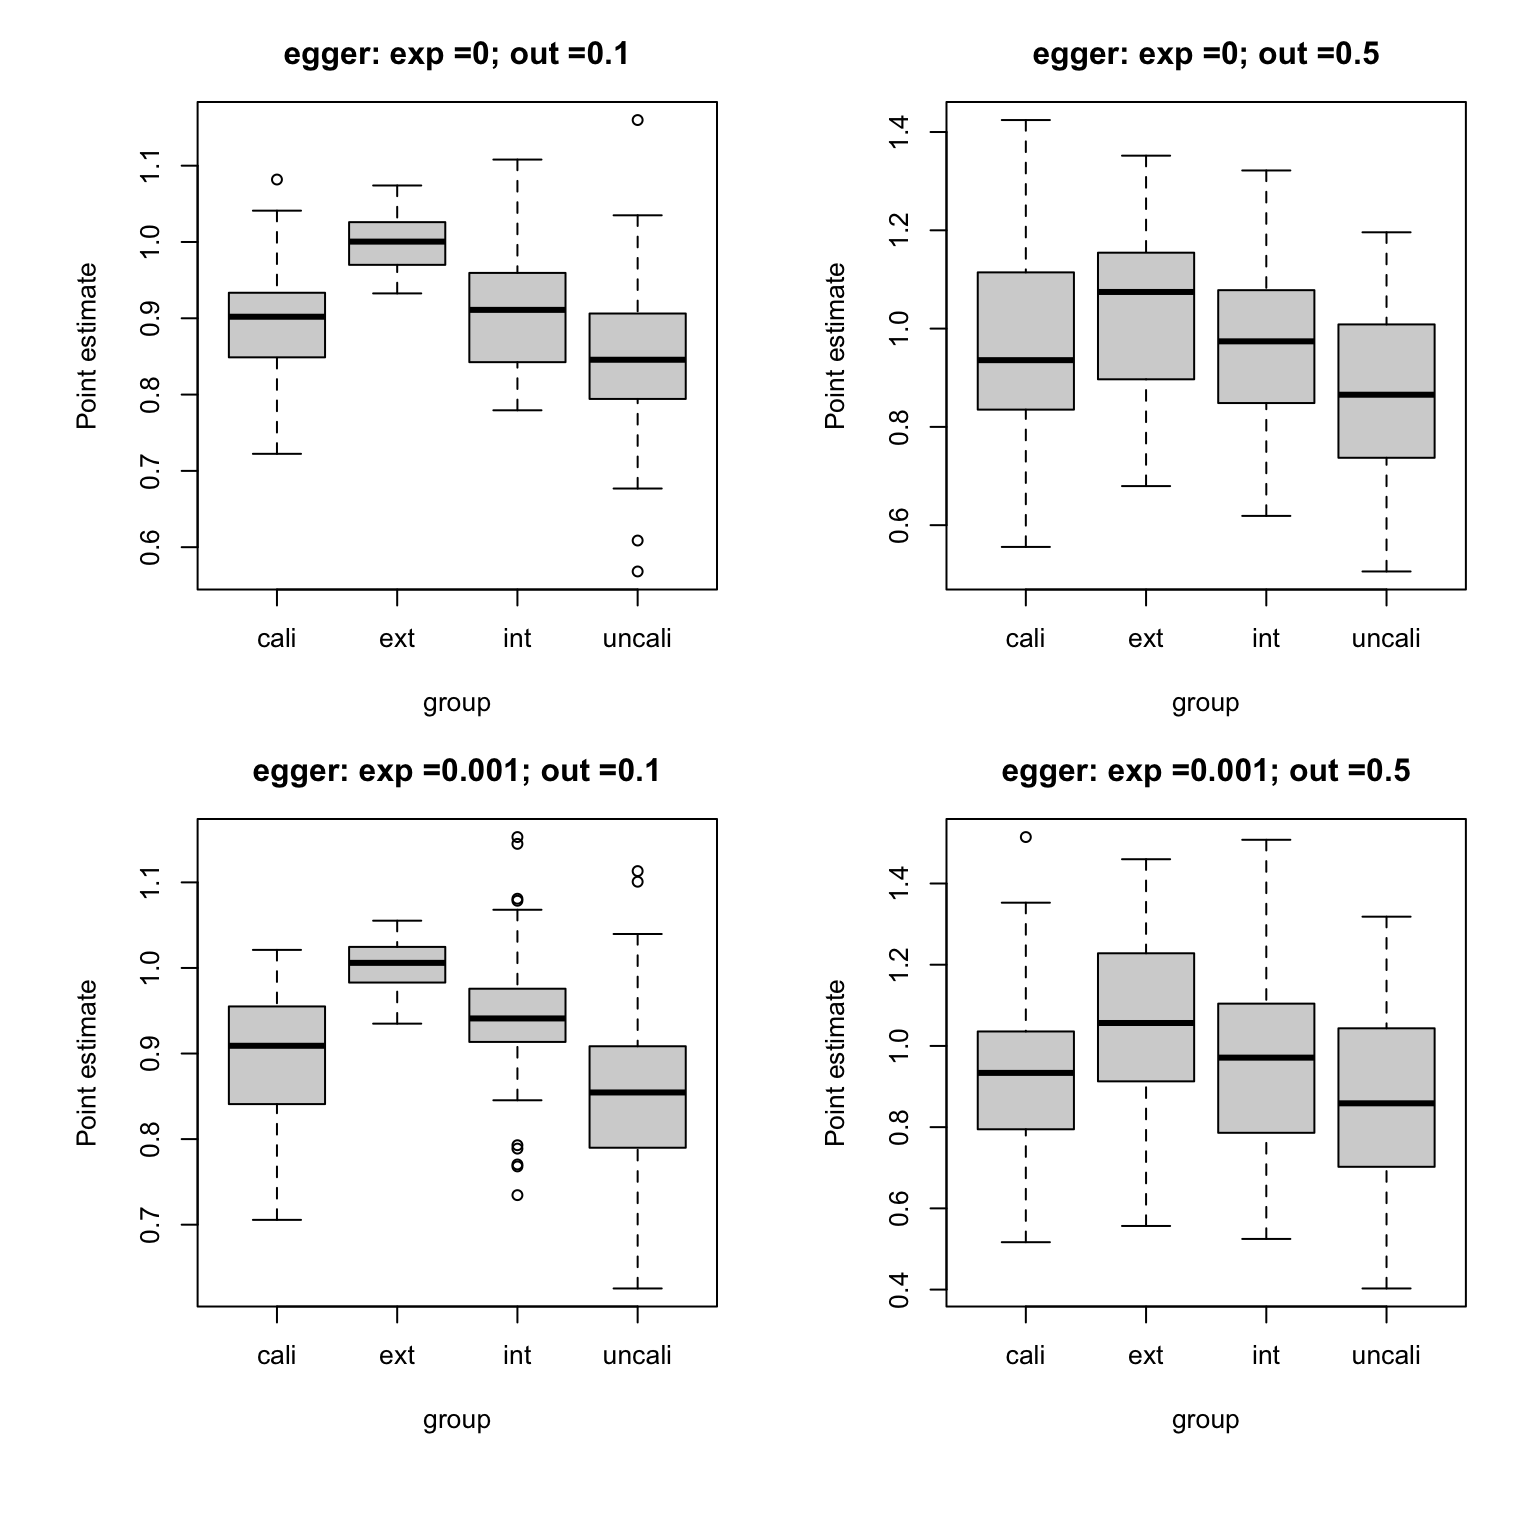
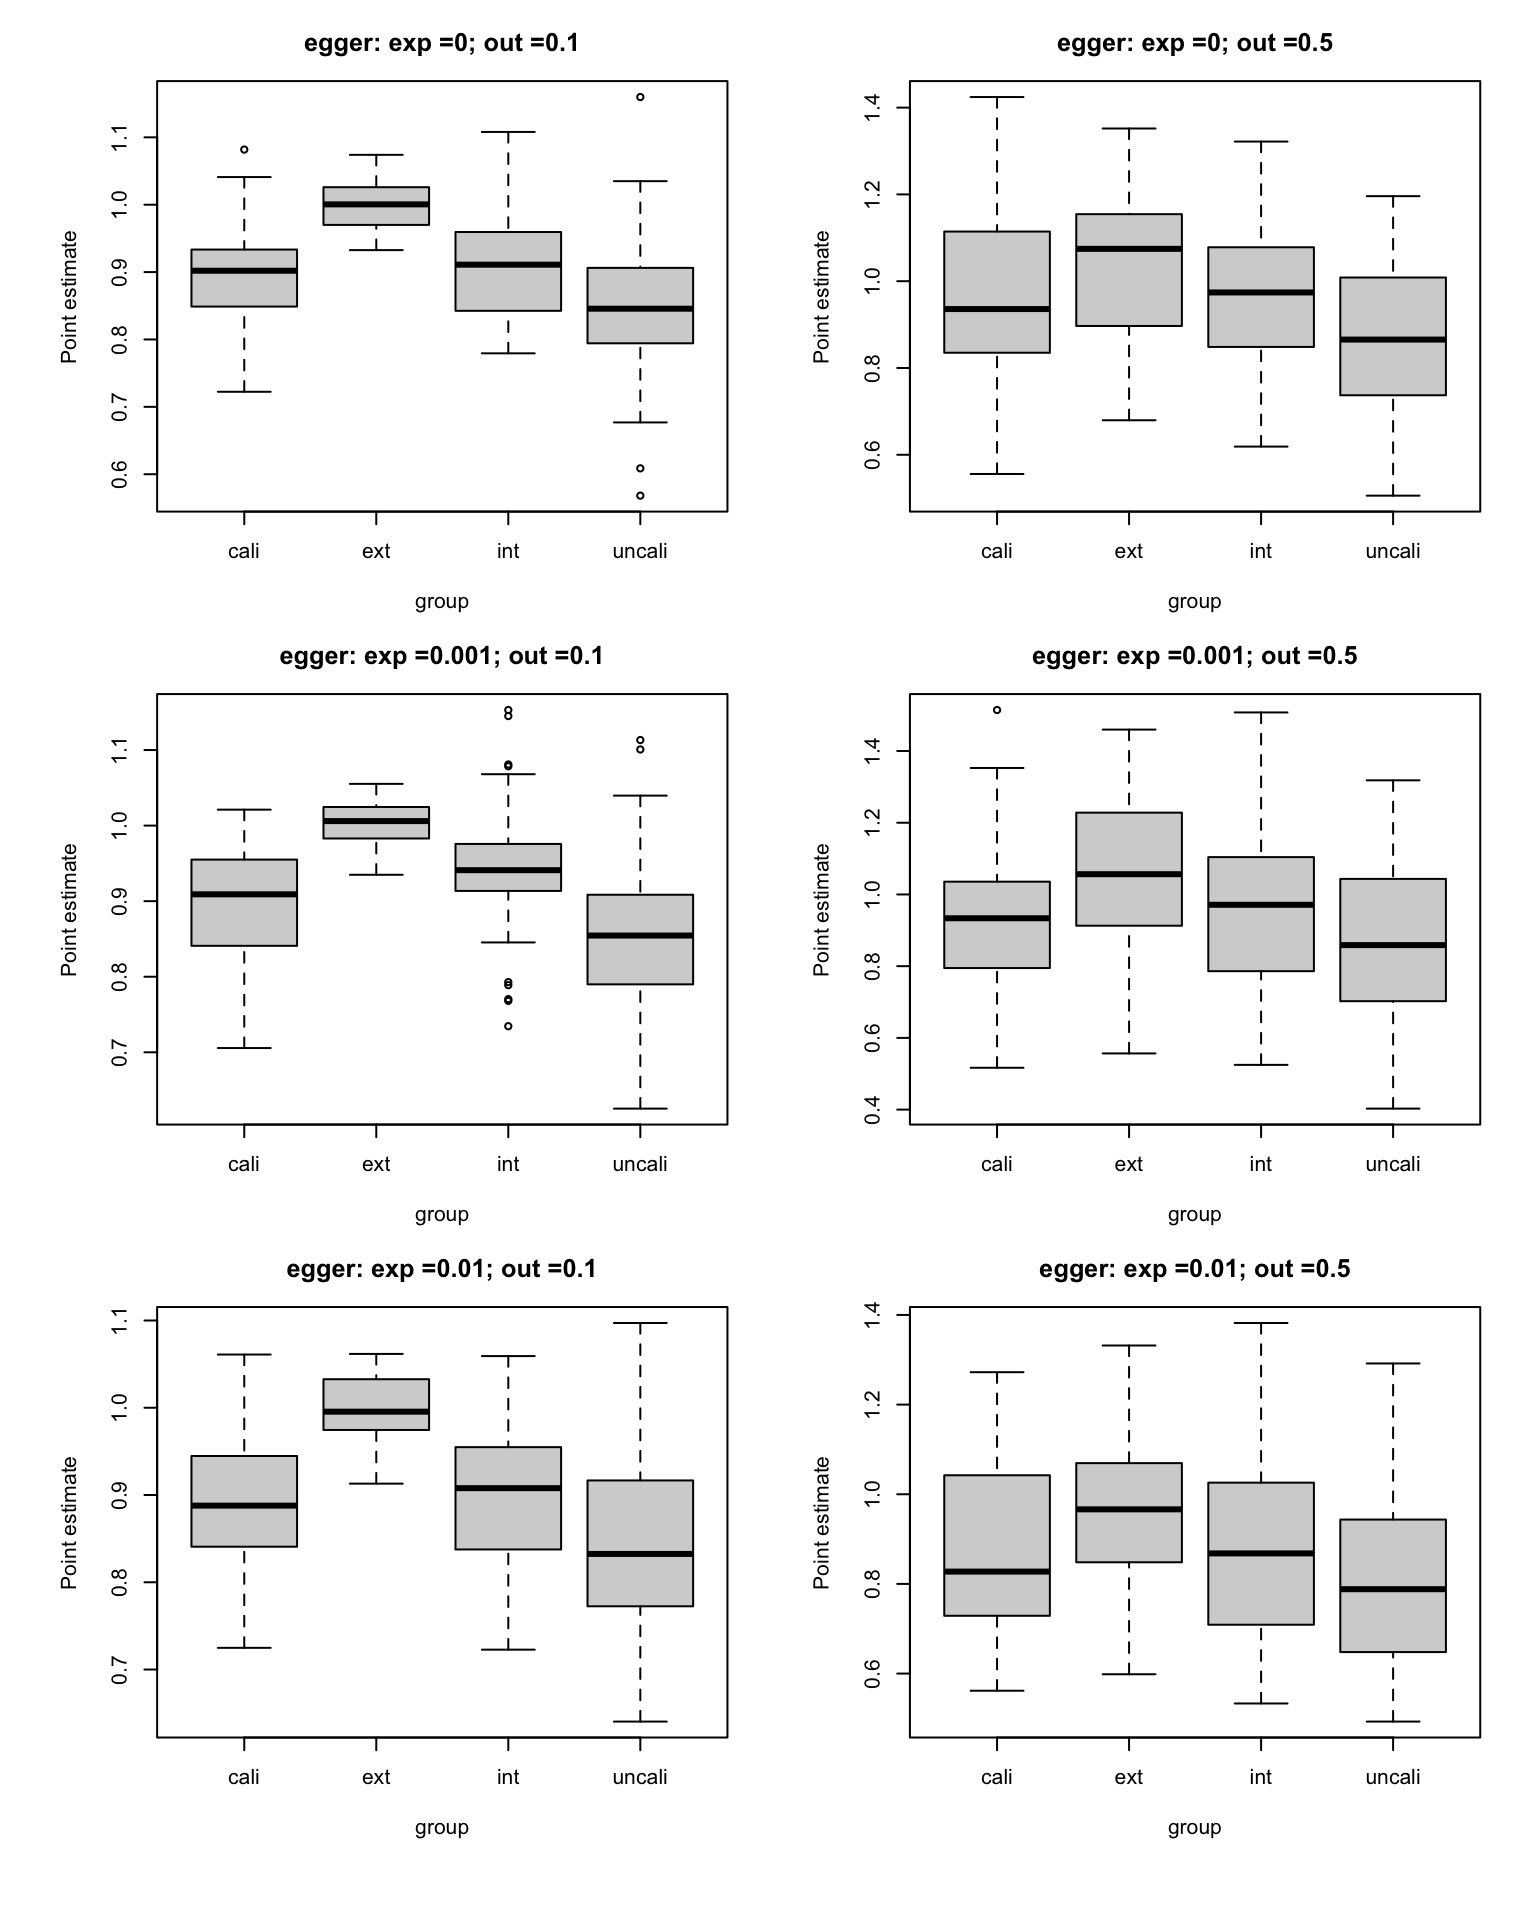
Build site.

diff --git a/docs/mr_result.html b/docs/mr_result.html
@@ -475,16 +475,16 @@ This reproducible <a href="http://rmarkdown.rstudio.com">R Markdown</a> analysis
 <div class="panel panel-default">
 <div class="panel-heading">
 <p class="panel-title">
-<a data-toggle="collapse" data-parent="#workflowr-checks" href="#strongRepositoryversionstrongahrefhttpsgithubcomyunqiyang0215simulationcalibratedmrtree392473387bdb72d81944f5c8b0a39fec6e5eef0btargetblank3924733a"> <span class="glyphicon glyphicon-ok text-success" aria-hidden="true"></span> <strong>Repository version:</strong> <a href="https://github.com/yunqiyang0215/simulation-calibrated-mr/tree/392473387bdb72d81944f5c8b0a39fec6e5eef0b" target="_blank">3924733</a> </a>
+<a data-toggle="collapse" data-parent="#workflowr-checks" href="#strongRepositoryversionstrongahrefhttpsgithubcomyunqiyang0215simulationcalibratedmrtreeb0f460d19e587545119f613d90ff9e086d748d89targetblankb0f460da"> <span class="glyphicon glyphicon-ok text-success" aria-hidden="true"></span> <strong>Repository version:</strong> <a href="https://github.com/yunqiyang0215/simulation-calibrated-mr/tree/b0f460d19e587545119f613d90ff9e086d748d89" target="_blank">b0f460d</a> </a>
 </p>
 </div>
[2 lines of base64/hex data omitted]
 <div class="panel-body">
 <p>
 Great! You are using Git for version control. Tracking code development and connecting the code version to the results is critical for reproducibility.
 </p>
 <p>
-The results in this page were generated with repository version <a href="https://github.com/yunqiyang0215/simulation-calibrated-mr/tree/392473387bdb72d81944f5c8b0a39fec6e5eef0b" target="_blank">3924733</a>. See the <em>Past versions</em> tab to see a history of the changes made to the R Markdown and HTML files.
+The results in this page were generated with repository version <a href="https://github.com/yunqiyang0215/simulation-calibrated-mr/tree/b0f460d19e587545119f613d90ff9e086d748d89" target="_blank">b0f460d</a>. See the <em>Past versions</em> tab to see a history of the changes made to the R Markdown and HTML files.
 </p>
 <p>
 Note that you need to be careful to ensure that all relevant files for the analysis have been committed to Git prior to generating the results (you can use <code>wflow_publish</code> or <code>wflow_git_commit</code>). workflowr only checks the R Markdown file, but you know if there are other scripts or data files that it depends on. Below is the status of the Git repository when the results were generated:
@@ -536,6 +536,40 @@ Message
 </tr>
 </thead>
 <tbody>
+<tr>
+<td>
+Rmd
+</td>
+<td>
+<a href="https://github.com/yunqiyang0215/simulation-calibrated-mr/blob/b0f460d19e587545119f613d90ff9e086d748d89/analysis/mr_result.Rmd" target="_blank">b0f460d</a>
+</td>
+<td>
+yunqiyang0215
+</td>
+<td>
+2023-07-20
+</td>
+<td>
+wflow_publish("analysis/mr_result.Rmd")
+</td>
+</tr>
+<tr>
+<td>
+html
+</td>
+<td>
+<a href="https://rawcdn.githack.com/yunqiyang0215/simulation-calibrated-mr/75a766c00d3547ed22ed8fc9b68e71736c9a8c60/docs/mr_result.html" target="_blank">75a766c</a>
+</td>
+<td>
+yunqiyang0215
+</td>
+<td>
+2023-07-20
+</td>
+<td>
+Build site.
+</td>
+</tr>
 <tr>
 <td>
 Rmd
@@ -599,7 +633,7 @@ wflow_publish("analysis/mr_result.Rmd")
 out_NT_effect = c(0.1, 0.5)
 method = c(&quot;calibrated&quot;, &quot;adj_uncalibrated&quot;, &quot;unadj_ext&quot;, &quot;unadj_int&quot;)
 mr_method = c(&quot;eggr&quot;, &quot;ivw&quot;, &quot;mr.raps&quot;)</code></pre>
-<pre class="r"><code>par(mfrow = c(2,2), mar = c(4, 5, 3, 2) + 0.1, oma = c(3, 1, 0, 0) + 0.1)
+<pre class="r"><code>par(mfrow = c(3,2), mar = c(4, 5, 3, 2) + 0.1, oma = c(3, 1, 0, 0) + 0.1)
 for (i in 1:length(exp_NT_effect)){
   for (j in 1:length(out_NT_effect)){
     res = dat[dat$simulate.exp_NT_effect == exp_NT_effect[i] &amp; dat$simulate.out_NT_effect == out_NT_effect[j] &amp; dat$mr.mr_method == &quot;eggr&quot;, ]
@@ -637,6 +671,17 @@ Date
 <tbody>
 <tr>
 <td>
+<a href="https://github.com/yunqiyang0215/simulation-calibrated-mr/blob/75a766c00d3547ed22ed8fc9b68e71736c9a8c60/docs/figure/mr_result.Rmd/unnamed-chunk-3-1.png" target="_blank">75a766c</a>
+</td>
+<td>
+yunqiyang0215
+</td>
+<td>
+2023-07-20
+</td>
+</tr>
+<tr>
+<td>
 <a href="https://github.com/yunqiyang0215/simulation-calibrated-mr/blob/2462bd7c5f2e22f31e73da236c9d889837c7273f/docs/figure/mr_result.Rmd/unnamed-chunk-3-1.png" target="_blank">2462bd7</a>
 </td>
 <td>
@@ -650,45 +695,7 @@ yunqiyang0215
 </table>
 </div>
 </div>
-<p><img src="figure/mr_result.Rmd/unnamed-chunk-3-2.png" width="768" style="display: block; margin: auto;" /></p>
-<p>
-<button type="button" class="btn btn-default btn-xs btn-workflowr btn-workflowr-fig" data-toggle="collapse" data-target="#fig-unnamed-chunk-3-2">
-Past versions of unnamed-chunk-3-2.png
-</button>
-</p>
-<div id="fig-unnamed-chunk-3-2" class="collapse">
-<div class="table-responsive">
-<table class="table table-condensed table-hover">
-<thead>
-<tr>
-<th>
-Version
-</th>
-<th>
-Author
-</th>
-<th>
-Date
-</th>
-</tr>
-</thead>
-<tbody>
-<tr>
-<td>
-<a href="https://github.com/yunqiyang0215/simulation-calibrated-mr/blob/2462bd7c5f2e22f31e73da236c9d889837c7273f/docs/figure/mr_result.Rmd/unnamed-chunk-3-2.png" target="_blank">2462bd7</a>
-</td>
-<td>
-yunqiyang0215
-</td>
-<td>
-2023-07-20
-</td>
-</tr>
-</tbody>
-</table>
-</div>
-</div>
-<pre class="r"><code>par(mfrow = c(2,2), mar = c(4, 5, 3, 2) + 0.1, oma = c(3, 1, 0, 0) + 0.1)
+<pre class="r"><code>par(mfrow = c(3,2), mar = c(4, 5, 3, 2) + 0.1, oma = c(3, 1, 0, 0) + 0.1)
 for (i in 1:length(exp_NT_effect)){
   for (j in 1:length(out_NT_effect)){
     res = dat[dat$simulate.exp_NT_effect == exp_NT_effect[i] &amp; dat$simulate.out_NT_effect == out_NT_effect[j] &amp; dat$mr.mr_method == &quot;mr.raps&quot;, ]
@@ -726,6 +733,17 @@ Date
 <tbody>
 <tr>
 <td>
+<a href="https://github.com/yunqiyang0215/simulation-calibrated-mr/blob/75a766c00d3547ed22ed8fc9b68e71736c9a8c60/docs/figure/mr_result.Rmd/unnamed-chunk-4-1.png" target="_blank">75a766c</a>
+</td>
+<td>
+yunqiyang0215
+</td>
+<td>
+2023-07-20
+</td>
+</tr>
+<tr>
+<td>
 <a href="https://github.com/yunqiyang0215/simulation-calibrated-mr/blob/2462bd7c5f2e22f31e73da236c9d889837c7273f/docs/figure/mr_result.Rmd/unnamed-chunk-4-1.png" target="_blank">2462bd7</a>
 </td>
 <td>
@@ -739,45 +757,7 @@ yunqiyang0215
 </table>
 </div>
 </div>
-<p><img src="figure/mr_result.Rmd/unnamed-chunk-4-2.png" width="768" style="display: block; margin: auto;" /></p>
-<p>
-<button type="button" class="btn btn-default btn-xs btn-workflowr btn-workflowr-fig" data-toggle="collapse" data-target="#fig-unnamed-chunk-4-2">
-Past versions of unnamed-chunk-4-2.png
-</button>
-</p>
-<div id="fig-unnamed-chunk-4-2" class="collapse">
-<div class="table-responsive">
-<table class="table table-condensed table-hover">
-<thead>
-<tr>
-<th>
-Version
-</th>
-<th>
-Author
-</th>
-<th>
-Date
-</th>
-</tr>
-</thead>
-<tbody>
-<tr>
-<td>
-<a href="https://github.com/yunqiyang0215/simulation-calibrated-mr/blob/2462bd7c5f2e22f31e73da236c9d889837c7273f/docs/figure/mr_result.Rmd/unnamed-chunk-4-2.png" target="_blank">2462bd7</a>
-</td>
-<td>
-yunqiyang0215
-</td>
-<td>
-2023-07-20
-</td>
-</tr>
-</tbody>
-</table>
-</div>
-</div>
-<pre class="r"><code>par(mfrow = c(2,2), mar = c(4, 5, 3, 2) + 0.1, oma = c(3, 1, 0, 0) + 0.1)
+<pre class="r"><code>par(mfrow = c(3,2), mar = c(4, 5, 3, 2) + 0.1, oma = c(3, 1, 0, 0) + 0.1)
 # c(bottom, left, top, right)
 
 
@@ -818,7 +798,7 @@ Date
 <tbody>
 <tr>
 <td>
-<a href="https://github.com/yunqiyang0215/simulation-calibrated-mr/blob/2462bd7c5f2e22f31e73da236c9d889837c7273f/docs/figure/mr_result.Rmd/unnamed-chunk-5-1.png" target="_blank">2462bd7</a>
+<a href="https://github.com/yunqiyang0215/simulation-calibrated-mr/blob/75a766c00d3547ed22ed8fc9b68e71736c9a8c60/docs/figure/mr_result.Rmd/unnamed-chunk-5-1.png" target="_blank">75a766c</a>
 </td>
 <td>
 yunqiyang0215
@@ -827,36 +807,9 @@ yunqiyang0215
 2023-07-20
 </td>
 </tr>
-</tbody>
-</table>
-</div>
-</div>
-<p><img src="figure/mr_result.Rmd/unnamed-chunk-5-2.png" width="768" style="display: block; margin: auto;" /></p>
-<p>
-<button type="button" class="btn btn-default btn-xs btn-workflowr btn-workflowr-fig" data-toggle="collapse" data-target="#fig-unnamed-chunk-5-2">
-Past versions of unnamed-chunk-5-2.png
-</button>
-</p>
-<div id="fig-unnamed-chunk-5-2" class="collapse">
-<div class="table-responsive">
-<table class="table table-condensed table-hover">
-<thead>
-<tr>
-<th>
-Version
-</th>
-<th>
-Author
-</th>
-<th>
-Date
-</th>
-</tr>
-</thead>
-<tbody>
 <tr>
 <td>
-<a href="https://github.com/yunqiyang0215/simulation-calibrated-mr/blob/2462bd7c5f2e22f31e73da236c9d889837c7273f/docs/figure/mr_result.Rmd/unnamed-chunk-5-2.png" target="_blank">2462bd7</a>
+<a href="https://github.com/yunqiyang0215/simulation-calibrated-mr/blob/2462bd7c5f2e22f31e73da236c9d889837c7273f/docs/figure/mr_result.Rmd/unnamed-chunk-5-1.png" target="_blank">2462bd7</a>
 </td>
 <td>
 yunqiyang0215
